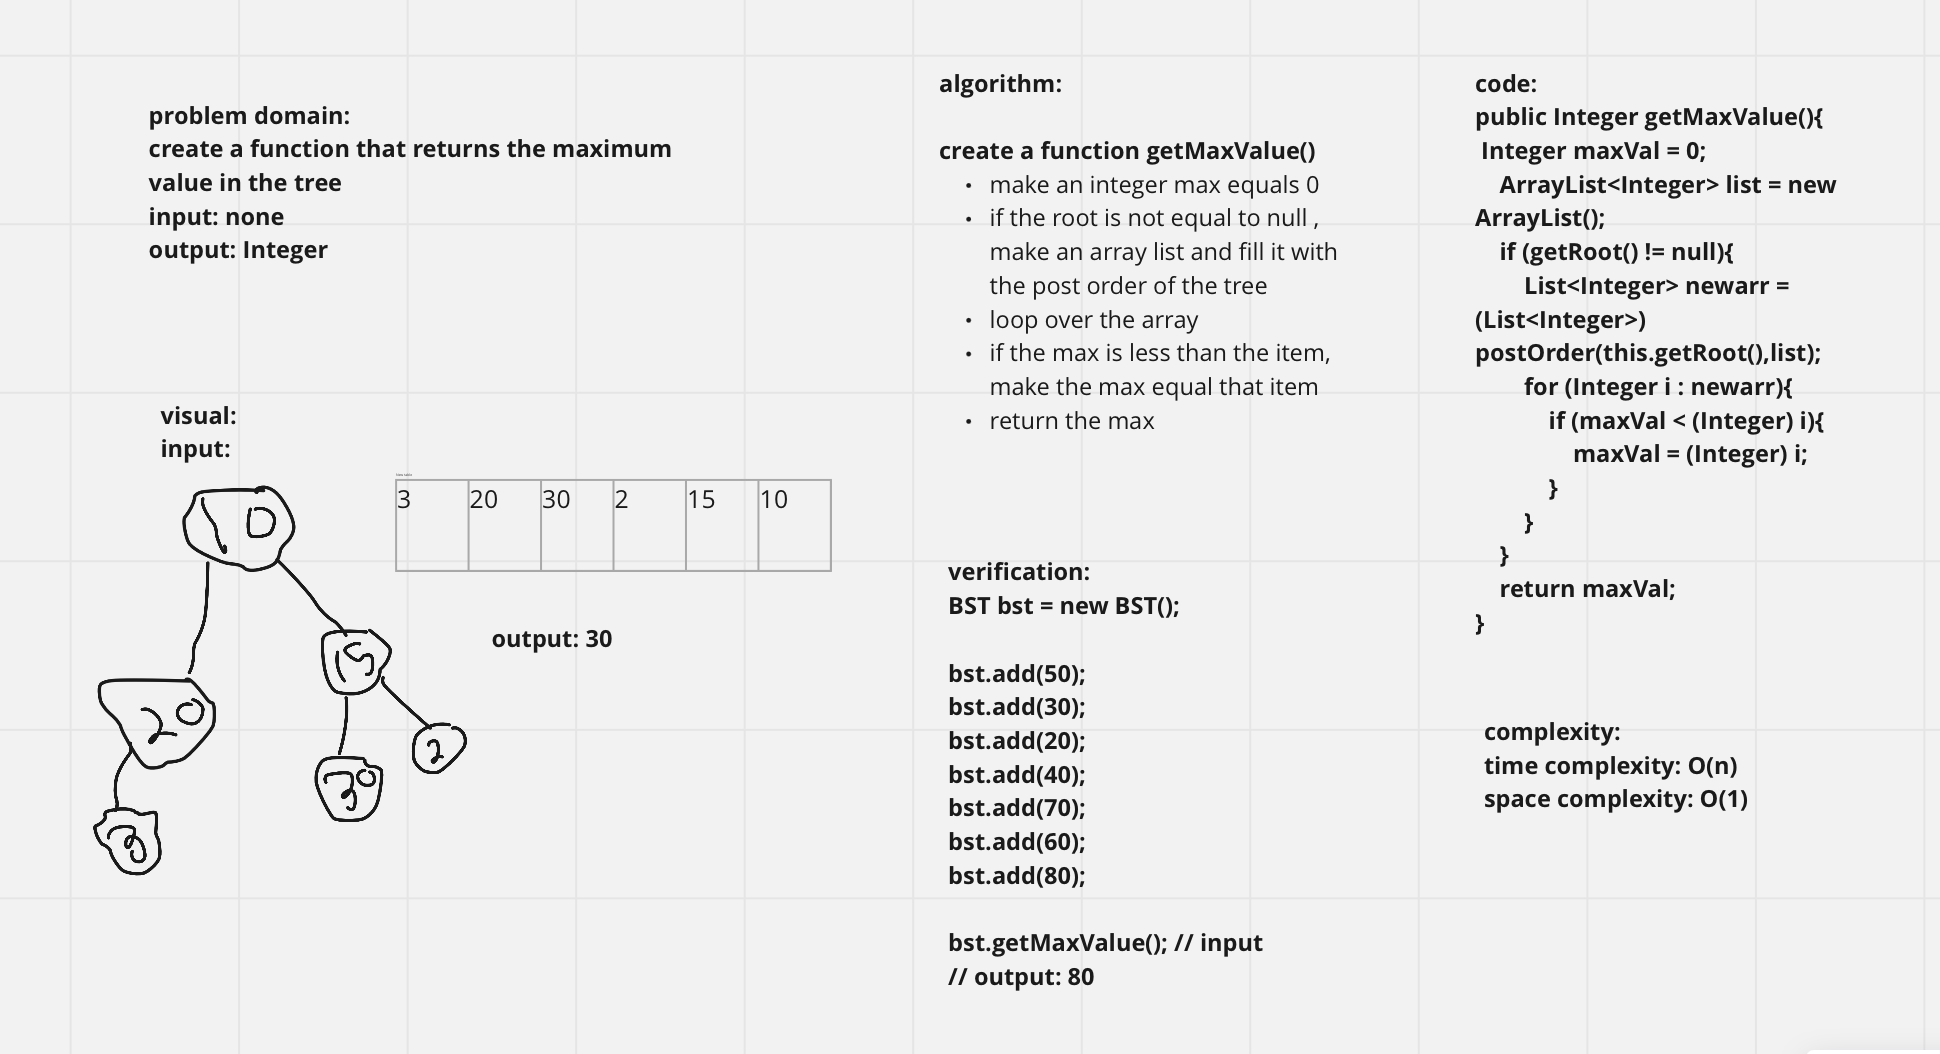
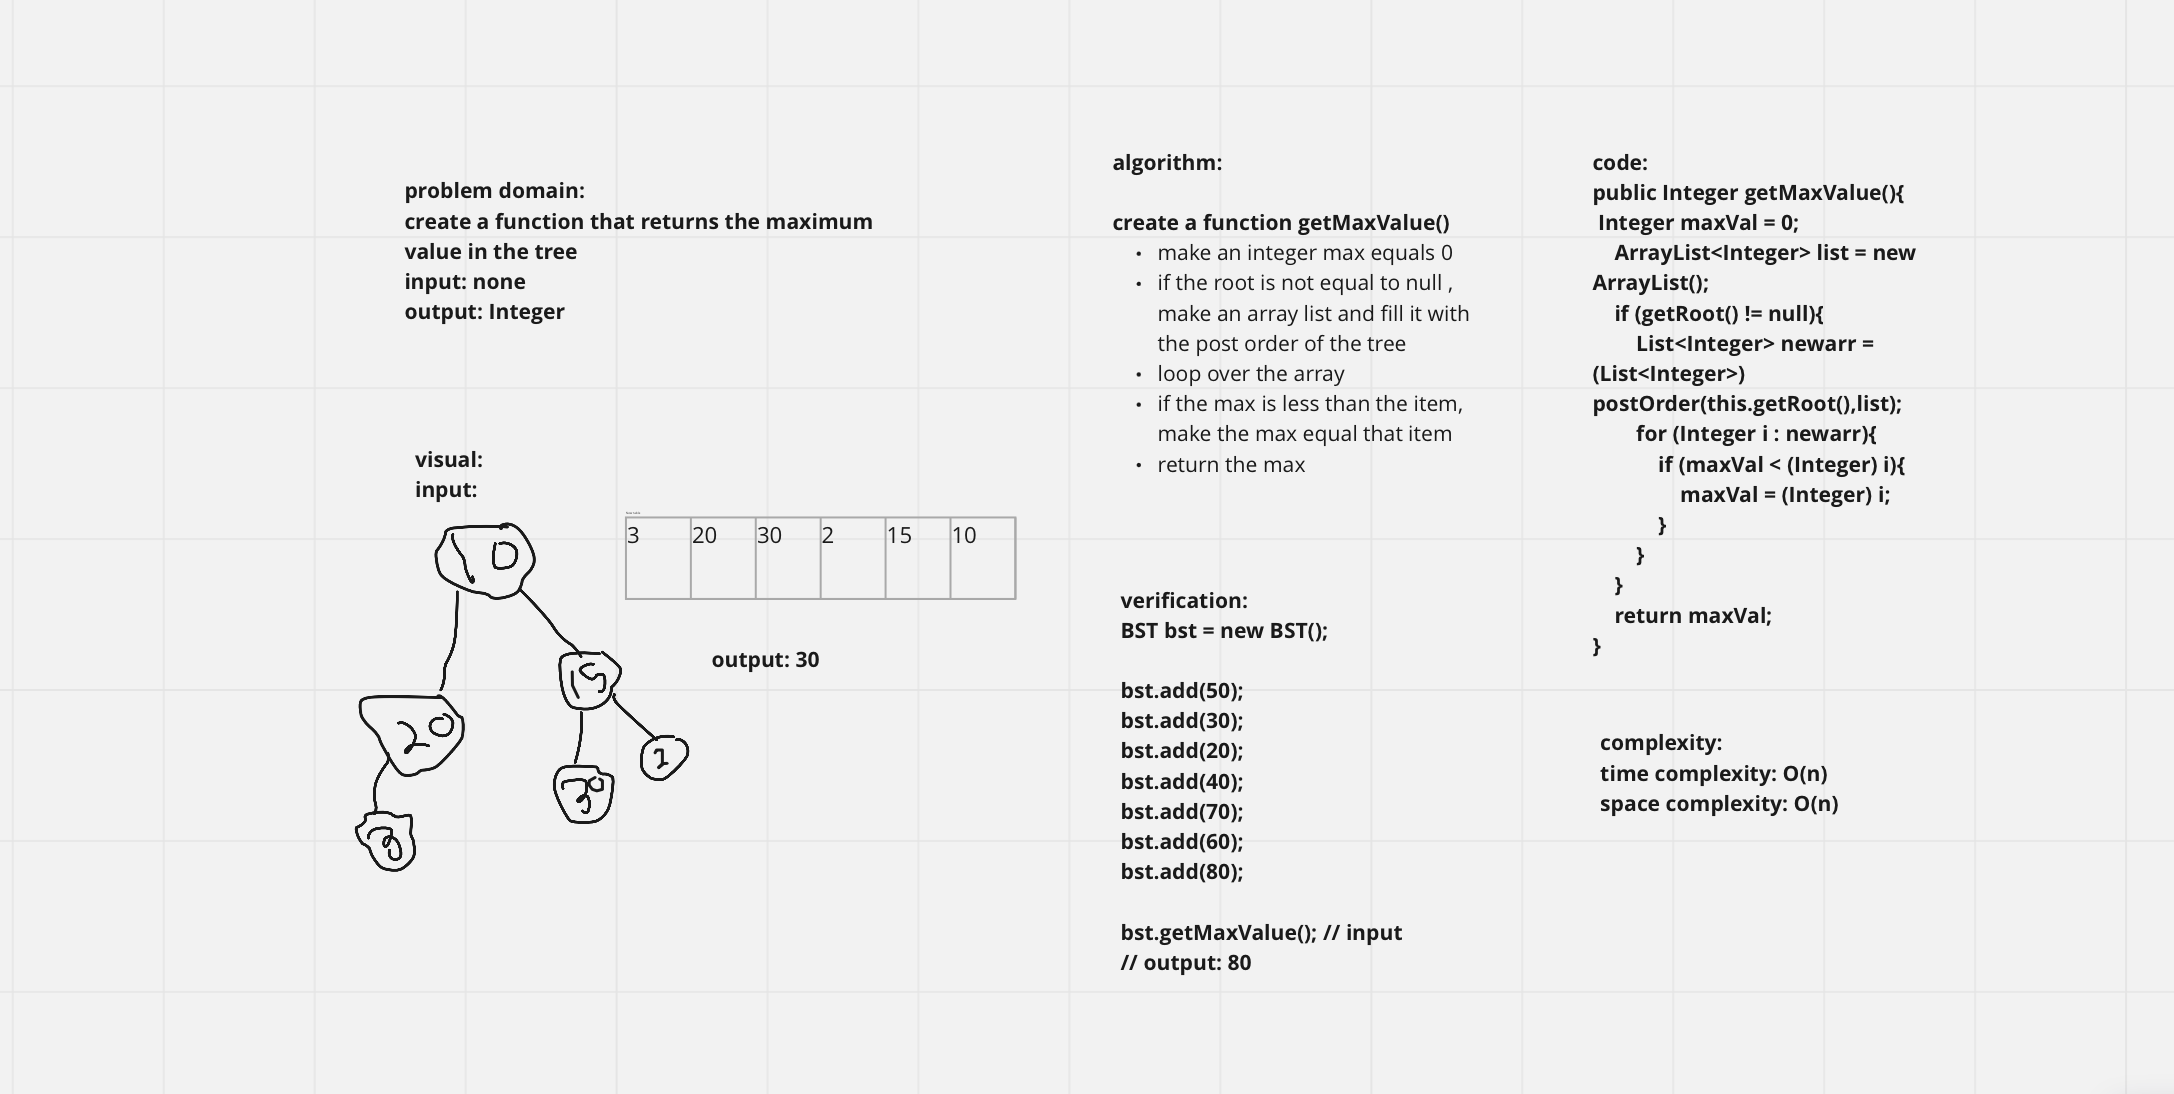
fixed the space complexity

diff --git a/trees/README.md b/trees/README.md
@@ -41,7 +41,7 @@ output: Integer
 
 complexity:  
 time complexity: O(n)  
-space complexity: O(1)  
+space complexity: O(n)  
 
 ## Solution
 
